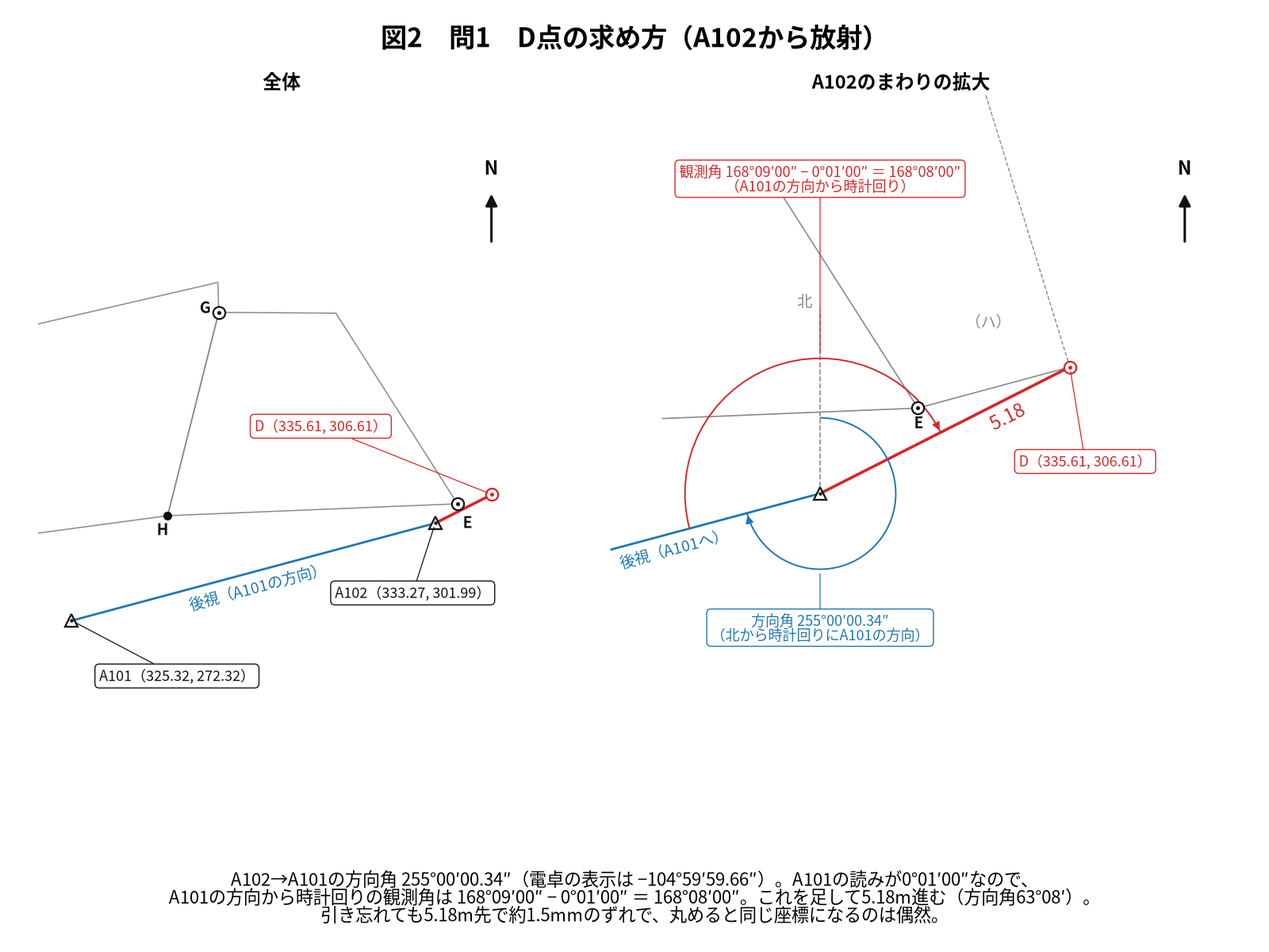
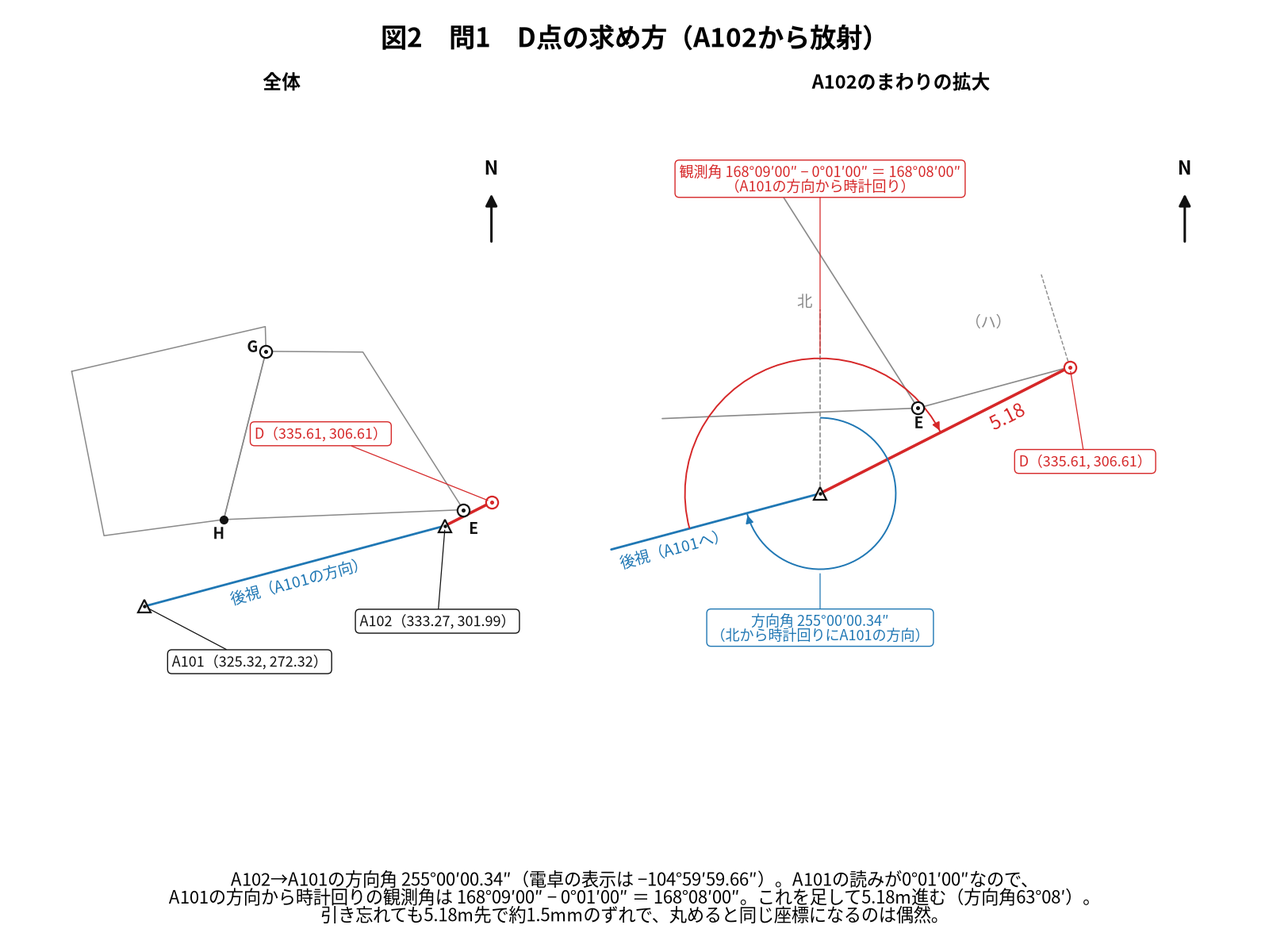
H28/Q21 会話形式：最新の依頼文に合わせた追加作業（注の書き分け・J点の別解・理由の組み立て・解く順番、図9〜11）
- 記事：注を「問題文の注N」「調査素図の（注）」「観測値の表の注N」と書き分け、注の仕分けの会話を追加
- 記事：J点の別解（平行線の間の幅2.3931…と三角関数真数表のsin 0.99952878、AJ 2.3943…）、問2の理由の組み立て、本番で解く順番を追加
- 解説図：図9（J点の別解）・図10（注の仕分け）・図11（解く順番）を作図、図2・図4・図8を修正（重なり0件）
- 図のプロンプト・照合スクリプトを11枚・13マーカーに対応（2けたの図番号、fixed_figure、注の書き分けの確認。NG 0件）
- 改善記録、執筆指示書の予備校の解説の例、README、CLAUDE.mdを更新

Claude-Session: https://claude.ai/code/session_019i2Gk2fCgYxaRBrT4NUg4u

diff --git a/note-articles-Kijyutsu/H28/Q21/note_H28_dai21mon_tochi_kaiwa_kaisetsu.md b/note-articles-Kijyutsu/H28/Q21/note_H28_dai21mon_tochi_kaiwa_kaisetsu.md
@@ -46,6 +46,17 @@
 - **問3**：丁土地の登記申請書（地積は座標法で求積）
 - **問4**：問3の申請書に付ける地積測量図
 
+**トリ先生**  
+「それから、注の読み方。この問題には注が3か所にあるの。問題文の注1〜9、調査素図の下の（注）、観測値の表の下の注1・注2。番号がかぶるから、どこの注かを必ず言いなさい」
+
+**藍子**  
+「問題文の注1〜4と問題文の注7〜9は、適法・書面申請・座標と辺長の丸め・距離の補正なし・三角関数真数表・訂正の方法で、毎年ほとんど同じです。今年だけなのは問題文の注5（地積測量図に座標値・系の番号・地積と求積方法・測量年月日を書かない）と問題文の注6（A市基準点は位置と点名だけ）。調査素図の（注）にはJ点の条件、観測値の表の注1には『観測角は右回り』、観測値の表の注2には『北はX軸正方向』があります」
+
+**トリ先生**  
+「そう。毎年同じ注は流し読みでいい。時間をかけるのは、今年だけの注と、点の条件が書いてある調査素図の（注）よ」
+
+> 【画像挿入】注の仕分けの図（問題文の注1〜9を毎年同じ注〈1〜4・7〜9〉と今年だけの注〈5・6〉に分け、調査素図の（注）〈J点の条件〉と観測値の表の注1・2〈右回り・北はX軸正方向〉を別の枠に）
+
 **藍子**  
 「先生、J点を出すには、A点・B点・G点の座標も要りますよね。問題文に載っているのは、基準点A101・A102とI点だけです」
 
@@ -81,7 +92,7 @@
 「D点は、A102に器械を据えて、A101を後視して観測しているわ。観測値を読み上げなさい」
 
 **藍子**  
-「A101が0°01′00″、Dが168°09′00″で水平距離5.18m。観測値の注1で、観測角は右回り、つまり時計回りです。だから、A102からA101の方向角に168°09′00″を足して、5.18m進みます！」
+「A101が0°01′00″、Dが168°09′00″で水平距離5.18m。観測値の表の注1で、観測角は右回り、つまり時計回りです。だから、A102からA101の方向角に168°09′00″を足して、5.18m進みます！」
 
 **トリ先生**  
 「――A101の観測角をよく見なさい！0°00′00″じゃなくて0°01′00″よ。器械の目盛りを0°01′00″に合わせた方向がA101なの。A101の方向から時計回りに測ったDの角度は、168°09′00″ − 0°01′00″ ＝ 168°08′00″。後視の読みを引かないといけないのよ」
@@ -115,7 +126,7 @@ D ＝ A102 ＋ 5.18∠( arg(A101 − A102) ＋ 168°09′00″ − 0°01′00″
 表示：335.6109… ＋ 306.6108…i
 
 **トリ先生**  
-「途中の arg(A101 − A102)、つまりA102→A101の方向角は −104°59′59.66″ と負で出るわ。360°を足して 255°00′00.34″ と読めばいいけど、計算は負のままで結果は同じ。座標は注3で小数第3位を四捨五入よ」
+「途中の arg(A101 − A102)、つまりA102→A101の方向角は −104°59′59.66″ と負で出るわ。360°を足して 255°00′00.34″ と読めばいいけど、計算は負のままで結果は同じ。座標は問題文の注3で小数第3位を四捨五入よ」
 
 **▶ D点（335.61, 306.61）**
 
@@ -236,6 +247,65 @@ ABとJGの平行 ＝ Conjg(B − A) × (G − J)
 「そう。平行四辺形の誤りだと、JAはBGと同じ2.44になるはず。でも、正しいJでは、JAは2.39で、BGの2.44より短い。台形だからよ」
 
 > 【画像挿入】J点の求め方の図（Gを通るABの平行線と直線AIの交点J、平行の記号、平行四辺形と思い込んだ誤りの点（346.06, 265.22）が直線AIより約0.4m西の41番に出る拡大図、Jの座標の吹き出し）
+
+**藍子**  
+「先生、三角関数真数表の76°59′56″と11°07′59″は、何に使うんですか？」
+
+**トリ先生**  
+「いいところに気づいたわね。76°59′56″はABの方向角、11°07′59″は180°からAIの方向角168°52′01″を引いた角よ。出題者は、方向角と三角関数で交点を出す解き方も用意していたの。別解としてやってみなさい。考え方は、ABとJGの間の幅 h を出して、それをAIの向きに直すだけ」
+
+**藍子**  
+「幅はBGの2.44じゃないんですか？」
+
+**トリ先生**  
+「――BGは斜めよ！幅は、2本の平行線に直角に測った距離。Gから直線ABまでの距離だから、三角形ABGの倍面積をABで割るの」
+
+式（点名）
+
+```
+h ＝ ( Conjg(B − A) × (G − A) のiの係数 ) ÷ Abs(B − A)
+```
+
+電卓操作（A＝A、B＝B、C＝G）
+
+```
+[Apps] [4] [ALPHA] [B] [−] [ALPHA] [A] [)] [×] [(] [ALPHA] [C] [−] [ALPHA] [A] [)] [=]
+46.9127 [÷] [Abs] [ALPHA] [B] [−] [ALPHA] [A] [)] [=]
+```
+
+表示：374.8347 ＋ 46.9127i
+
+表示：2.3931…
+
+**トリ先生**  
+「次は、ABとAIがはさむ角∠BAJのsin。∠BAJ ＝ 180° −（11°07′59″ ＋ 76°59′56″）だから、sin∠BAJ ＝ sin（11°07′59″ ＋ 76°59′56″）。加法定理で、真数表の値だけで出せるわ」
+
+```
+sin∠BAJ ＝ 0.1931 × 0.2250 ＋ 0.9812 × 0.9744 ＝ 0.99952878
+AJ ＝ h ÷ sin∠BAJ ＝ 2.3931… ÷ 0.99952878 ＝ 2.3943…
+```
+
+式（点名）
+
+```
+J ＝ A ＋ (I − A) ÷ Abs(I − A) × 2.3943
+```
+
+電卓操作（A＝A、X＝I。AJは小数第4位までの2.3943を打ち込む。切り捨てた分は0.1mmより小さく、座標の丸めに影響しない）
+
+```
+[ALPHA] [A] [+] [(] [ALPHA] [X] [−] [ALPHA] [A] [)] [÷] [Abs] [ALPHA] [X] [−] [ALPHA] [A] [)] [×] 2.3943 [=]
+```
+
+表示：346.1507… ＋ 265.6123…i
+
+**藍子**  
+「丸めると（346.15, 265.61）。Conjgの比で出したJと同じです！ 幅をBGの2.44にしていたら、AJが2.44になって（346.11, 265.62）にずれていました」
+
+**トリ先生**  
+「そう。本番は、キーの少ないConjgの比の方がおすすめ。でも、真数表に載っている角度は出題者のヒントだから、どの辺の方向角なのかは確かめておくといいわ」
+
+> 【画像挿入】J点の別解の図（ABとJGの間の幅h＝2.3931…〈BGの2.44ではない〉、∠BAJのsin＝0.1931×0.2250＋0.9812×0.9744、AJ＝2.3943…、J（346.15, 265.61））
 
 ---
 
@@ -400,6 +470,19 @@ GH ＝ Abs(H − G)
 - **理由**：戊土地は、（ニ）部分が畑、（ハ）部分が宅地で地目が異なるため、2筆の土地として土地表題登記を申請する必要がある。（ニ）部分の取得原因は時効取得、（ハ）部分の取得原因は売払いと異なるが、土地表題登記の登記原因は土地が生じた原因であり、2筆ともその登記原因及びその日付は不詳で同一である。同一の登記所の管轄区域内にある2筆の土地について、登記の目的並びに登記原因及びその日付が同一であるから、一の申請情報によって申請することができる（不動産登記令第4条ただし書）
 
 **藍子**  
+「理由の欄は長くなりますね。採点者に伝わるように、何をそろえればいいですか？」
+
+**トリ先生**  
+「指定された3つの語句を、それぞれ1回ずつ、役割をはっきりさせて使うの。順番はこうよ」
+
+- **地目**：（ニ）部分と（ハ）部分の地目が違う → だから2筆の土地として表題登記をする（「1筆」ではない理由）
+- **取得原因**：時効取得と売払いで違う → でも、それは所有権の取得の原因にすぎない
+- **登記原因**：表題登記の登記原因は土地が生じた原因で、2筆とも不詳で同じ → 登記の目的も同じだから、一の申請情報でできる（結論と条文）
+
+**トリ先生**  
+「語句を使っただけで、何が同じで何が違うのかを書かないと点にならないわ。『違うもの（地目・取得原因）』と『同じもの（登記の目的・登記原因及びその日付）』を分けて書く。これが骨組みよ」
+
+**藍子**  
 「問題文の『近傍類似の土地についての地図の縮尺は500分の1』は、何のためにあったんですか？」
 
 **トリ先生**  
@@ -483,7 +566,7 @@ GH ＝ Abs(H − G)
 「問4は、問3の申請書に付ける地積測量図。分合筆の地積測量図は、分筆前の土地、つまり40番2を描いて、分筆線で（イ）と（ロ）を示すの（不動産登記規則第78条）。合筆先の32番1の形は描かないわ」
 
 **藍子**  
-「地番欄は40番2、土地の所在はA市B町一丁目。区画の中には（イ）40－2と（ロ）を書きます。（ロ）は登記記録を作らない部分なので、地番は付けません。辺の長さは注4で小数第3位を四捨五入です」
+「地番欄は40番2、土地の所在はA市B町一丁目。区画の中には（イ）40－2と（ロ）を書きます。（ロ）は登記記録を作らない部分なので、地番は付けません。辺の長さは問題文の注4で小数第3位を四捨五入です」
 
 - **AB**：19.60
 - **BG**：2.44
@@ -496,8 +579,8 @@ GH ＝ Abs(H − G)
 **トリ先生**  
 「ABは19.6025だから、小数第3位の2を見て19.60。JAは2.3945…で、小数第3位は4だから2.39。2.40にしないこと。書くもの・書かないものも整理するわよ」
 
-- **書く**：各辺の長さ、分筆線JG、地番（（イ）40－2、（ロ））、方位、隣接地の地番（ABの北は32－1、Bの北東は31－2、GHの東は40－1、IJの西は41、Aの北西は34、HIの南は道路）、境界標（A・B・G・Jはコンクリート杭、H・Iは金属標）、基準点A101・A102の位置と点名（注6）
-- **書かない**：各筆界点の座標値、平面直角座標系の番号又は記号、地積及びその求積方法、測量年月日（注5）。A101・A102の座標値（注6）。合筆先の32番1の形、（ロ）の地番
+- **書く**：各辺の長さ、分筆線JG、地番（（イ）40－2、（ロ））、方位、隣接地の地番（ABの北は32－1、Bの北東は31－2、GHの東は40－1、IJの西は41、Aの北西は34、HIの南は道路）、境界標（A・B・G・Jはコンクリート杭、H・Iは金属標）、基準点A101・A102の位置と点名（問題文の注6）
+- **書かない**：各筆界点の座標値、平面直角座標系の番号又は記号、地積及びその求積方法、測量年月日（問題文の注5）。A101・A102の座標値（問題文の注6）。合筆先の32番1の形、（ロ）の地番
 - **印刷済みなので書かない**：申請人・作成者（「（略）」）、縮尺250分の1
 
 **藍子**  
@@ -527,7 +610,21 @@ GH ＝ Abs(H − G)
 「計算は放射1点と交点1点だけなのに、後視の読み、台形、地目、登記原因、端数と、細かいところにわなが詰まっていました」
 
 **トリ先生**  
-「そう。計算が軽い年ほど、問2の文章と申請書の細部で差がつくの。D点とJ点は10分で片付けて、問2の理由を『地目』『取得原因』『登記原因』の3つの語句で組み立てる時間を残しなさい。アンタならできるわ。次の年度も、この調子でいくわよ！」
+「本番で解く順番も決めておくわよ。この年度でいちばん時間を食うのはどこ？」
+
+**藍子**  
+「J点の交点と、そのあとの面積3つ（丁土地の確かめ、（イ）、（ロ））、それに地積測量図の作図です」
+
+**トリ先生**  
+「そう。じゃあ、J点がなくても書ける欄は？」
+
+**藍子**  
+「問2は計算がいらないので全部書けます。問3の申請書も、登記の目的、添付書類、登録免許税、申請人、所在、1行目の40番2・畑・276、4行目の32番1・畑・351、各行の原因、（ロ）の『40番2から分割して32番1に合併する部分』まで書けます。J点が要るのは、（イ）の230、（ロ）の46、合筆後の32番1の398の3つと、地積測量図だけです」
+
+**トリ先生**  
+「だから順番はこう。①問2を先に書き切る、②問3の申請書のJ点が要らない欄を埋める、③D点（放射1回で終わる）、④J点、⑤面積3つと3つの地積、⑥辺長7本と地積測量図。J点で手間取っても、①〜③で点を積んでおけば崩れないわ。計算が軽い年ほど、問2の文章と申請書の細部で差がつくの。アンタならできるわ。次の年度も、この調子でいくわよ！」
+
+> 【画像挿入】本番で解く順番の図（①問2 → ②申請書のJ点が要らない欄 → ③D点 → ④J点 → ⑤面積3つ〈230・46・398〉 → ⑥辺長7本と地積測量図。J点が要るのは地積3つと地積測量図だけ）
 
 **藍子**  
 「はい、先生！」

diff --git a/CLAUDE.md b/CLAUDE.md
@@ -313,7 +313,7 @@ I点はH→Eの延長線（t＝2.1243…）とA→Bの交点（−50731.24, −1
 問3の土地一部地目変更・分筆登記（（イ）の原因「平成27年7月20日一部地目変更　③100番1、100番3に分筆」、（イ）4783.925→4783.92〈四捨五入しない〉、（ロ）100番3 用悪水路 361〈1㎡未満切捨て〉、申請人は付記1号で登記済みの今の本店と代表者、添付情報は地積測量図・会社法人等番号〈本試験当時は資格証明情報〉・代理権限証明情報、登録免許税2,000円）、
 問4の乙土地の土地所在図兼地積測量図（辺長6本は全部割り切れる、乙土地の登記を先に申請するのでHに接するのは100－1）が主な論点。作図では、くの字の区画で重心が辺の外側に来て辺長が内側に入る問題が見つかり、解説図の基本フォームに辺ごとに内側の点を指定するルールを加えた。
 平成28年度分（`H28/Q21/`）はアガルートの解答例・答案用紙・試験問題本文と照合済み（2026-09-29。添付は試験問題本文〈全9ページ〉・試験の答案用紙・アガルートの過去問集の該当部分〈全26ページ。問題の再掲・白紙の答案用紙・解説・解答例〉で、欠けている資料はなかった。アガルートの答案用紙の再現は申請日が「平成30年○月○日」に置き換わっていたので、試験の答案用紙どおり平成28年とした）。
-会話形式の記事`note_H28_dai21mon_tochi_kaiwa_kaisetsu.md`、解説図8枚のプロンプト`prompt_H28_dai21mon_kaiwa_kaisetsuzu.md`と作図スクリプト・PNG（`zu/`、重なりの自動検査0件・目視確認済み）、
+会話形式の記事`note_H28_dai21mon_tochi_kaiwa_kaisetsu.md`、解説図11枚のプロンプト`prompt_H28_dai21mon_kaiwa_kaisetsuzu.md`と作図スクリプト・PNG（`zu/`、重なりの自動検査0件・目視確認済み）、
 登記申請書の完成形・添削画像（縦長。HTML＋Playwrightで生成済み、`zu/make_H28_dai21mon_shinseisho_gazou.py`）とそのプロンプト、見出し画像のプロンプト、照合スクリプト`verify_H28_dai21mon_kaiwa.py`（NG 0件）がそろっている（見出し画像は画像生成AIが必要なため未生成）。
 本問は、A102からの放射で後視A101の読みが0°01′00″なので観測角から引く点（168°08′00″。距離5.18mでは引き忘れても丸めた座標が同じなのは偶然、三角関数真数表の63°08′00″が合図）、D（335.61, 306.61）、
 「ABと平行なGを通る直線とAIの交点」のJ点を平行四辺形（J ＝ A ＋ (G − B)。直線AIより約0.4m西の41番に出る）ではなく交点の式で出す点（346.15, 265.61）、
@@ -322,6 +322,7 @@ I点はH→Eの延長線（t＝2.1243…）とA→Bの交点（−50731.24, −1
 取得原因（時効取得・売払い）は違っても表題登記の登記原因及びその日付は2筆とも「不詳」で同一なので一の申請情報で申請できる点（不動産登記令第4条ただし書）、
 問3で登録免許税が最少の土地分合筆登記1件（金2,000円。分筆と合筆の2件だと3,000円。不動産登記規則第35条第1号）、合筆後の32番1を登記記録の351＋46＝397ではなく地積測量図の351.67100＋46.4342＝398.1052→398とする点（問3の「座標法により求積」の指示。R2/Q21の「登記記録＋（ロ）」は登記記録が座標と別の値の年度）、
 （ロ）の行「40番2から分割して32番1に合併する部分」、問4の地積測量図は分筆前の40番2だけで（ロ）に地番を付けない点が主な論点。C点は問題文に座標がないので、戊土地を描く図だけ「位置は模式」と明記した（解説図の基本フォームに反映）。
+同日、最新の依頼文・執筆指示書と照らし合わせた追加作業で、注の書き分け（「問題文の注5」「調査素図の（注）」「観測値の表の注1」。番号が3か所でかぶる）と注の仕分けの会話、J点の別解（ABとJGの間の幅2.3931…〈BGの2.44は斜めの長さで幅ではない〉を三角関数真数表の値のsin∠BAJ＝0.99952878で割ってAJ＝2.3943…。[Ans]は執筆指示書の電卓操作の要点にないキーなので値を打ち込む）、問2の理由の組み立て（地目は違うもの・登記原因は同じもの）、本番で解く順番（①問2→②申請書のJ点が要らない欄→③D点→④J点→⑤面積3つ→⑥辺長7本と地積測量図）を足し、図9〈J点の別解〉・図10〈注の仕分け〉・図11〈解く順番〉を作図した（重なりの自動検査0件・目視確認済み、`fit`に描いた線の端点をすべて入れた。照合スクリプトは図・マーカーの数を2けたの図番号と`fixed_figure`のタイトルまで数えるように直し、NG 0件）。
 平成25年度分（`H25/Q21/`）の会話形式もアガルートの解答例・答案用紙・試験問題本文と照合済み（2026-09-29。添付は試験問題本文〈全7ページ〉・試験の答案用紙〈2ページ〉・アガルートの過去問集の該当部分〈全22ページ。問題の再掲・白紙の答案用紙・解説・解答例〉の3つで、欠けている資料はなかった。過去問集は年を平成30年にして日付を2か月後ろにずらしていたため、記事は試験問題本文と答案用紙どおり平成25年の日付で書いた）。
 会話形式の記事`note_H25_dai21mon_tochi_kaiwa_kaisetsu.md`、解説図7枚のプロンプト`prompt_H25_dai21mon_kaiwa_kaisetsuzu.md`と作図スクリプト・PNG（`zu/`、重なりの自動検査0件・目視確認済み）、登記申請書の完成形・添削画像（3コマを縦に積んだ縦長）のプロンプトとPNG・HTML（`zu/make_H25_dai21mon_shinseisho_gazou.py`で生成済み）、見出し画像のプロンプト、照合スクリプト`verify_H25_dai21mon_kaiwa.py`（NG 0件）がそろっている（見出し画像は画像生成AIが必要なため未生成）。
 本問は、A101からA100を後視した放射で、水平角278°47′58″を時計回りに足して（458°09′51.91″＝98°09′51.91″）B点（151.63, 171.42）を出す点（反時計回りに引くと西の道路の先）、調査素図の注3の夾角から∠G＝7°37′35″を出し、正弦定理で求める辺GFに向かい合う∠Dのsinを使ってGF＝8.36、G→Dの向きから時計回りに回してF点（138.08, 170.37）を出す点（∠Gのsinで計算すると11.04＝DFの長さになりF点が2.7m東にずれる）、

diff --git a/note-articles-Kijyutsu/qa-checklist-kijutsu.md b/note-articles-Kijyutsu/qa-checklist-kijutsu.md
@@ -349,6 +349,18 @@
 
 チェックで見つかった誤りの種類と、指示書・執筆プロンプトへの反映を記録する。新しい記録は上に追加する。
 
+**2026-09-29　H28 Q21（土地・会話形式）最新の執筆プロンプト・依頼文と照らし合わせた追加作業（ユーザー指示）**
+
+- 経緯：ユーザー指示「作成済みのH28 21問のコンテンツ・測量図・図解・登記申請書を最新のプロンプトと照らし合わせ、完了していない事項を追加作業で実行し、画像がまだなら作成して zu に保存」。登記申請書の完成形・添削画像（縦長）と解説図8枚は作成済みだったので、最新の依頼文の「特に守ること」を1項目ずつ当てはめ、足りない内容と図を足した。答え（アガルートの解答例と全欄一致。（ニ）部分は畑）は変えていない
+- 注の書き分け：この年度は注が3か所（問題文の注1〜9、調査素図の（注）、観測値の表の注1・注2）にあり番号がかぶるのに、記事・図のプロンプト・作図スクリプトに「注5」「注6」「注1」と、どこの注か書いていない箇所が残っていた → すべて「問題文の注5」「観測値の表の注1」などに直し、第1章に注の仕分け（毎年同じ注〈1〜4・7〜9〉と今年だけの注〈5・6〉、調査素図の（注）、観測値の表の注）の会話と図10を足した。照合スクリプトで裸の「注N」が0か所であることを確かめる
+- 予備校の解説との見比べで足した観点（自分の言葉で）：J点を、ABとJGの間の幅h＝Conjg(B − A) × (G − A) のiの係数 ÷ AB ＝ 2.3931…と、三角関数真数表の値で出すsin∠BAJ＝0.99952878からAJ＝2.3943…として出す別解（BGの2.44を幅と取り違えると（346.11, 265.62）にずれる、を藍子のつまずきに）と図9
+- 電卓操作の誤り（自分のミス）：別解の最後に [Ans] を使いかけたが、[Ans] は執筆指示書の電卓操作の要点に書いたキーにない（「上に書いていないキーは…使わない」） → 表示の2.3943を打ち込む操作にし、その理由（4桁で丸めても交点の座標は丸めると同じ）を書いた。要点にないキーは、便利でも使わない
+- 理由を文章で説明させる問（問2）：答えの文だけでなく、「違うもの（地目 → 2筆）」と「同じもの（登記原因及びその日付 → 一の申請情報）」の2つに分けて組み立てる会話を第5章に足した
+- 時間配分：まとめに「①問2 → ②申請書のJ点が要らない欄 → ③D点 → ④J点 → ⑤面積3つ → ⑥辺長7本と地積測量図」の具体的な順番と、J点が要るのは地積3つと地積測量図だけであることを足し、図11にした
+- 作図で直したこと：図2の拡大パネルで、描いた線（D→Cの模式の短い線）の端が `fit` に入っておらず枠の外に出かけた → `fit` に描いた線の端点をすべて入れた（図2・図4・図9）。図4の「GH ＝ 17.11」と「（イ）230.2059 → 230㎡」の文字が重なった → 吹き出しにし、40番1の文字の位置を動かした。図9の∠BAJの吹き出しがパネルの外に出た → 弧の中央（方向角122.93°の向き）に吹き出しの根元を置いた
+- 照合スクリプト：図の数・PNG・作図スクリプトのタイトル番号を2けたの図番号と `fixed_figure(` のタイトルまで数える正規表現に直し、図の挿入位置の文言・別解の数値・解く順番・注の書き分けの確認を足した（NG 0件）。全年度の照合スクリプトもNG 0件
+- 見出し画像は画像生成AIが必要なため、プロンプト（`prompt_H28_dai21mon_miidashi_gazou.md`）までで未生成
+
 **2026-09-29　R4 Q22（建物・会話形式）最新の執筆プロンプト・依頼文と照らし合わせた追加作業と画像の生成（ユーザー指示）**
 
 - 経緯：ユーザー指示「作成済みのR4 22問のコンテンツ・測量図・図解・登記申請書を最新のプロンプトと照らし合わせ、完了していない事項を追加作業で実行し、画像がまだなら作成して zu に保存」。R4/Q22は2026-09-28に作成したが、その後に第22問の各年度（R7・R6・R5・R2・R1・H25〜H30）で加わった依頼文・執筆プロンプト・本指示書のルールと、画像そのものの生成（`zu/`）が反映されていなかった。最新の依頼文の「作成するファイル」「特に守ること」「完了前に行うこと」を1項目ずつ当てはめた。答え（アガルートの解答例と全欄一致）は変えていない

diff --git a/note-articles-Kijyutsu/prompt_note-kijutsu_tochi_kaiwa_kyoutsu.md b/note-articles-Kijyutsu/prompt_note-kijutsu_tochi_kaiwa_kyoutsu.md
@@ -60,7 +60,7 @@
 - 座標・穴埋め・辺長・地積測量図・申請書の各項目を、欄ごとに突き合わせて一覧にする
 - 不一致なら、まず自分の計算・判断を疑う。原因がわかったら、答えだけでなく、その答えに至る会話の説明も直す
 - 解答例から読み取れない項目は、作業報告に「照合できなかった」と書く（記事では断定しない）
-- 予備校の解説（解説文・動画の書き起こしなど）があれば、答えの照合に加えて、解く順番・時間配分・別解・受験生がつまずく点を記事と見比べ、記事に足りない観点を**自分の言葉で**足す（解説文の言い回しは流用しない。R7/Q21で、K点の面積の比による別解、10月の申請で相続を証する情報が要らない理由、L点を最後に回す時間配分を足した。R2/Q21で、四角形の面積を対角線2本で出す別解、問3の法令の穴埋めを別紙を読まずに先に解く順番、基準点まで入れた地積測量図の作図範囲を足した。予備校の解説は注の番号が試験問題と違うことがある〈R2/Q21〉ので、記事の注の番号は試験問題の本文で確かめる。R6/Q21で、問題文の注を毎年同じ注と今年だけの注に仕分ける読み方、四角形の面積を対角線で出す別解、基準点まで入れた地積測量図の作図範囲、問題文の「登録免許税を要しない場合は不要と記載」の指示が今回は当たらないことを足した）
+- 予備校の解説（解説文・動画の書き起こしなど）があれば、答えの照合に加えて、解く順番・時間配分・別解・受験生がつまずく点を記事と見比べ、記事に足りない観点を**自分の言葉で**足す（解説文の言い回しは流用しない。R7/Q21で、K点の面積の比による別解、10月の申請で相続を証する情報が要らない理由、L点を最後に回す時間配分を足した。R2/Q21で、四角形の面積を対角線2本で出す別解、問3の法令の穴埋めを別紙を読まずに先に解く順番、基準点まで入れた地積測量図の作図範囲を足した。予備校の解説は注の番号が試験問題と違うことがある〈R2/Q21〉ので、記事の注の番号は試験問題の本文で確かめる。R6/Q21で、問題文の注を毎年同じ注と今年だけの注に仕分ける読み方、四角形の面積を対角線で出す別解、基準点まで入れた地積測量図の作図範囲、問題文の「登録免許税を要しない場合は不要と記載」の指示が今回は当たらないことを足した。H28/Q21で、J点を平行線の間の幅〈BGの斜めの長さではない〉と三角関数真数表の値で出す別解、問2の理由を「違うもの（地目）」と「同じもの（登記原因）」に分けて組む書き方、J点が要らない欄から先に埋める解く順番を足した）
 
 **6. 土地固有の必須チェック論点**
 

diff --git a/note-articles-Kijyutsu/README.md b/note-articles-Kijyutsu/README.md
@@ -80,12 +80,12 @@ note-articles-Kijyutsu/
 ├── H28/
 │   ├── Q21/
 │   │   ├── note_H28_dai21mon_tochi_kaiwa_kaisetsu.md    note記事本文（会話形式。アガルート解答例と照合済み）
-│   │   ├── prompt_H28_dai21mon_kaiwa_kaisetsuzu.md      解説図8枚（全体図・D点の放射・J点の交点・筆界点の裏付けと（イ）（ロ）の面積・戊土地の2筆・取得原因と登記原因の整理図・分合筆の前後・地積測量図）作成プロンプト（土地の基本フォームの記入済み）
+│   │   ├── prompt_H28_dai21mon_kaiwa_kaisetsuzu.md      解説図11枚（全体図・D点の放射・J点の交点・筆界点の裏付けと（イ）（ロ）の面積・戊土地の2筆・取得原因と登記原因の整理図・分合筆の前後・地積測量図・J点の別解・注の仕分け・本番で解く順番）作成プロンプト（土地の基本フォームの記入済み）
 │   │   ├── prompt_H28_dai21mon_toukishinseisho_gazou.md 登記申請書画像プロンプト（完成形。土地分合筆登記。項目の順序は平成28年度の答案用紙どおり）
 │   │   ├── prompt_H28_dai21mon_toukishinseisho_machigai.md  登記申請書「登録免許税」欄と合筆後の32番1の行の誤答→添削→正解の画像プロンプト（3コマを縦に積んだ縦長）
 │   │   ├── prompt_H28_dai21mon_miidashi_gazou.md         note見出し画像（サムネイル）作成プロンプト（1280×670px）
 │   │   ├── verify_H28_dai21mon_kaiwa.py                 記事・付属プロンプト・生成画像の数値・体裁の照合スクリプト
-│   │   └── zu/                                         解説図8枚のPNGと作図スクリプト draw_H28_dai21mon_kaisetsuzu.py、登記申請書の完成形・添削画像のPNG・HTMLと生成スクリプト make_H28_dai21mon_shinseisho_gazou.py
+│   │   └── zu/                                         解説図11枚のPNGと作図スクリプト draw_H28_dai21mon_kaisetsuzu.py、登記申請書の完成形・添削画像のPNG・HTMLと生成スクリプト make_H28_dai21mon_shinseisho_gazou.py
 │   └── Q22/
 │       ├── note_H28_dai22mon_tatemono_kaisetsu.md             note記事本文（会話形式。アガルート解答例と照合済み）
 │       ├── prompt_H28_dai22mon_kaisetsuzu.md                  解説図7枚（出入り経路図・階の数え方の誤り比較図・敷地辺長図・建物図面・1階/2階/3階求積図）作成プロンプト
